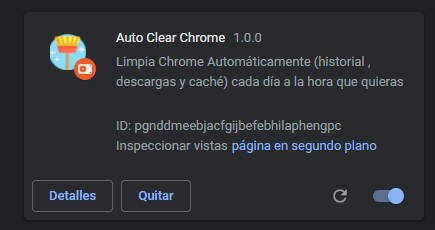
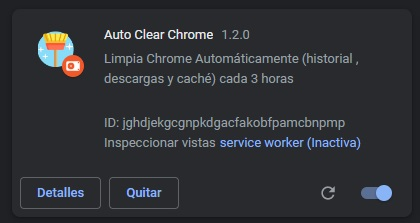
Auto Clear Chrome 1.2.0
-Ahora la extensión limpia cada 3 horas
-Añadida página de index
-Actualizada a Chrome Manifest V3

diff --git a/background.js b/background.js
@@ -1,27 +1,19 @@
-// Función para configurar por primera vez
-function installinit() {
-  if (localStorage.getItem('install_time'))
-    return;
+/* Función para configurar por primera vez
+chrome.runtime.onInstalled.addListener(function (object) {
+  let externalUrl = "index.html";
 
-  var now = new Date().getTime();
-  localStorage.setItem('install_time', now);
-
-  var hora = prompt("A qué hora quieres limpiar Chrome? (Historial , Descargas y Caché) (Formato 24hrs)");
-  while (hora > 24 || hora < 0) {
-    alert("Error , el número debe ser entre 0 y 24")
-    var hora = prompt("A qué hora quieres limpiar Chrome? (Historial , Descargas y Caché) (Formato 24hrs)");
+  if (object.reason === chrome.runtime.OnInstalledReason.INSTALL) {
+    chrome.tabs.create({ url: externalUrl }, function (tab) {
+    });
   }
-  chrome.storage.local.set({ data: hora }, function () {
-    alert('Listo! , La extensión limpiará Chrome a las ' + hora);
-  });
-}
-installinit();
+});
+*/
 
 // Comprueba la última versión de Auto Clear Chrome
 fetch('https://raw.githubusercontent.com/Suiah98/Auto-Clear-Chrome/main/CheckVersion.txt')
   .then(response => response.text())
   .then(data => {
-    let versionactual = compare(data, chrome.app.getDetails().version);
+    let versionactual = compare(data, chrome.runtime.getManifest().version);
     if (versionactual == 1) {
       var forumUrl = 'https://github.com/Suiah98/Auto-Clear-Chrome';
       var options = {
@@ -73,31 +65,12 @@ function compare(a, b) {
   return 0;
 }
 
-
-// Función que comprueba la hora cada x tiempo y ejecuta la limpieza si es necesario
-var a;
-chrome.storage.local.get("data", function (item) {
-  window.a = item["data"];
-  var hour = parseInt(a, 10);
-
-  setInterval(checkDate, 30 * 60 * 1000)
-
-  function checkDate() {
-    var date = new Date();
-    if (date.getHours() === hour) {
-      clearChrome();
-      chrome.notifications.create('', {
-        title: 'Tarea realizada',
-        message: 'Chrome Limpiado correctamente',
-        iconUrl: 'icon.png',
-        type: 'basic'
-      });
-    }
-  }
-});
+// Limpia Chrome cada 3 horas
+  setInterval(clearChrome, 10800000);
 
 // Función que limpia Chrome
 function clearChrome() {
+  console.log("Chrome Limpiado!")
   var millisecondsPerYear = 1000 * 60 * 60 * 24 * 365;
   var oneYearAgo = (new Date()).getTime() - millisecondsPerYear;
   chrome.browsingData.remove({

diff --git a/index.html b/index.html
@@ -1,0 +1,57 @@
+<!doctype html>
+<html lang="es">
+
+<head>
+    <!-- Required meta tags -->
+    <meta charset="utf-8">
+    <meta name="viewport" content="width=device-width, initial-scale=1, shrink-to-fit=no">
+
+    <!-- Bootstrap CSS -->
+    <link href="https://cdn.jsdelivr.net/npm/bootstrap@5.1.0/dist/css/bootstrap.min.css" rel="stylesheet"
+        integrity="sha384-KyZXEAg3QhqLMpG8r+8fhAXLRk2vvoC2f3B09zVXn8CA5QIVfZOJ3BCsw2P0p/We" crossorigin="anonymous">
+
+
+    <link rel="stylesheet" href="styles.css">
+    <link rel="shortcut icon" type="image/png" href="icon.png" />
+
+    <title>Auto Clear Chrome</title>
+</head>
+
+<body>
+    <header>
+        <ul class="nav nav-tabs">
+            <img src="icon.png" alt="logo" class="d-inline-block align-top" style="width:50px;">
+            <li class="nav-item">
+                <a class="nav-link disabled">Ajustes (Proximamente...)</a>
+            </li>
+        </ul>
+    </header>
+
+    <main>
+        <!-- Contenido Principal -->
+        <div class="container">
+            <div class="alert alert-warning" role="alert">
+                Uso Auto Clear Chrome para aprender sobre las extensiones de Chrome , pueden faltar funciones o haber
+                errores!
+            </div>
+            <h3>Bienvenido a Auto Clear Chrome</h3>
+            <p>Auto Clear Chrome es una extensión que limpia Chrome automáticamente (historial , descargas y caché)
+            </p>
+            <h4>Changelog Ver:<div id="version"></div>
+            </h4>
+            <ul class="list-group">
+                <li class="list-group-item">Añadida página de index</li>
+            </ul>
+    </main>
+
+    <footer class="footer footermargin">
+        <p class="text-center">Desarrollado con
+            mucho amor! 💖</p>
+        <p class="text-center"><a target="_blank" href="https://github.com/suiah98">GitHub</a></p>
+        <div class="footer-copyright text-center py-3">© 2022 Suiah98 – All rights reserved
+        </div>
+    </footer>
+    <script src="index.js"></script>
+</body>
+
+</html>

diff --git a/styles.css b/styles.css
@@ -1,0 +1,87 @@
+/* Tema Light/Dark */
+/* Tema por si no se activa ni light ni dark */
+body {
+    --color: white;
+    --content: 'no compatible';
+    font-size: 18px;
+    margin: 0;
+    min-width: 500px;
+    background-color: var(--color);
+}
+
+* {
+    color: #595959;
+}
+
+h2,
+h3 {
+    color: black;
+}
+
+/* Tema Light */
+@media (prefers-color-scheme: light) {
+    body {
+        --color: #ffdeac;
+    }
+
+    * {
+        color: #595959;
+    }
+
+    h2,
+    h3 {
+        color: black;
+    }
+
+    footer {
+        background: #ff9b90;
+        -webkit-border-radius: 10px;
+        border: rgb(59, 59, 59) 2px outset;
+    }
+}
+
+/* Tema Dark */
+@media (prefers-color-scheme: dark) {
+    body {
+        --color: #202125;
+    }
+
+    * {
+        color: #ebebeb;
+    }
+
+    h2,
+    h3 {
+        color: white;
+    }
+
+    footer {
+        background: #292929;
+        -webkit-border-radius: 10px;
+        border: rgb(36, 36, 36) 2px outset;
+    }
+}
+
+/* Fin */
+
+img {
+    width: 480px;
+}
+
+.footermargin {
+    margin-top: 20px;
+}
+
+main {
+    margin-top: 15px;
+}
+
+p {
+    margin: 1% 3% 3% 3%;
+    font-size: 20px;
+}
+
+footer p {
+    margin: 1% 3% 0% 3%;
+    font-size: 20px;
+}

diff --git a/index.js b/index.js
@@ -1,0 +1,4 @@
+var manifestData = chrome.runtime.getManifest();
+var div = document.getElementById('version');
+
+div.innerHTML += manifestData.version;

diff --git a/README.md b/README.md
@@ -1,5 +1,7 @@
-# Auto Clear Chrome 1.1.0
-Extensión que limpia Chrome automáticamente (historial , descargas y caché) cada día a la hora que quieras
+# Auto Clear Chrome 1.2.0
+Auto Clear Chrome es una extensión que limpia Chrome automáticamente (historial , descargas y caché) cada 3 horas
+
+#### Uso Auto Clear Chrome para aprender sobre las extensiones de Chrome , pueden faltar funciones o haber errores!
 
 ## Instalación:
 Auto Clear Chrome por ahora no está disponible dentro de Chrome Web Store debido a que aún está en desarrollo , así qué toca instalarlo por medio del modo desarrollador de Chrome:
@@ -20,8 +22,4 @@ Auto Clear Chrome por ahora no está disponible dentro de Chrome Web Store debid
 
 <img src="https://github.com/Suian98/Auto-Clear-Chrome/blob/main/assets/4.jpg?raw=true" width="480">
 
-5.Ya solo queda indicarle a la extensión a qué hora quieres que se realice la limpieza
-
-<img src="https://github.com/Suian98/Auto-Clear-Chrome/blob/main/assets/5.jpg?raw=true" width="480">
-
-### Listo! , ahora la extensión limpiará Chrome a la hora seleccionada , el historial también desaparecerá de tus dispositivos sincronizados , ten en cuenta que la extensión no limpia My Activity de tu cuenta de Google
+### Listo! , ahora la extensión limpiará Chrome cada 3 horas , el historial también desaparecerá de tus dispositivos sincronizados , ten en cuenta que la extensión no limpia My Activity de tu cuenta de Google
